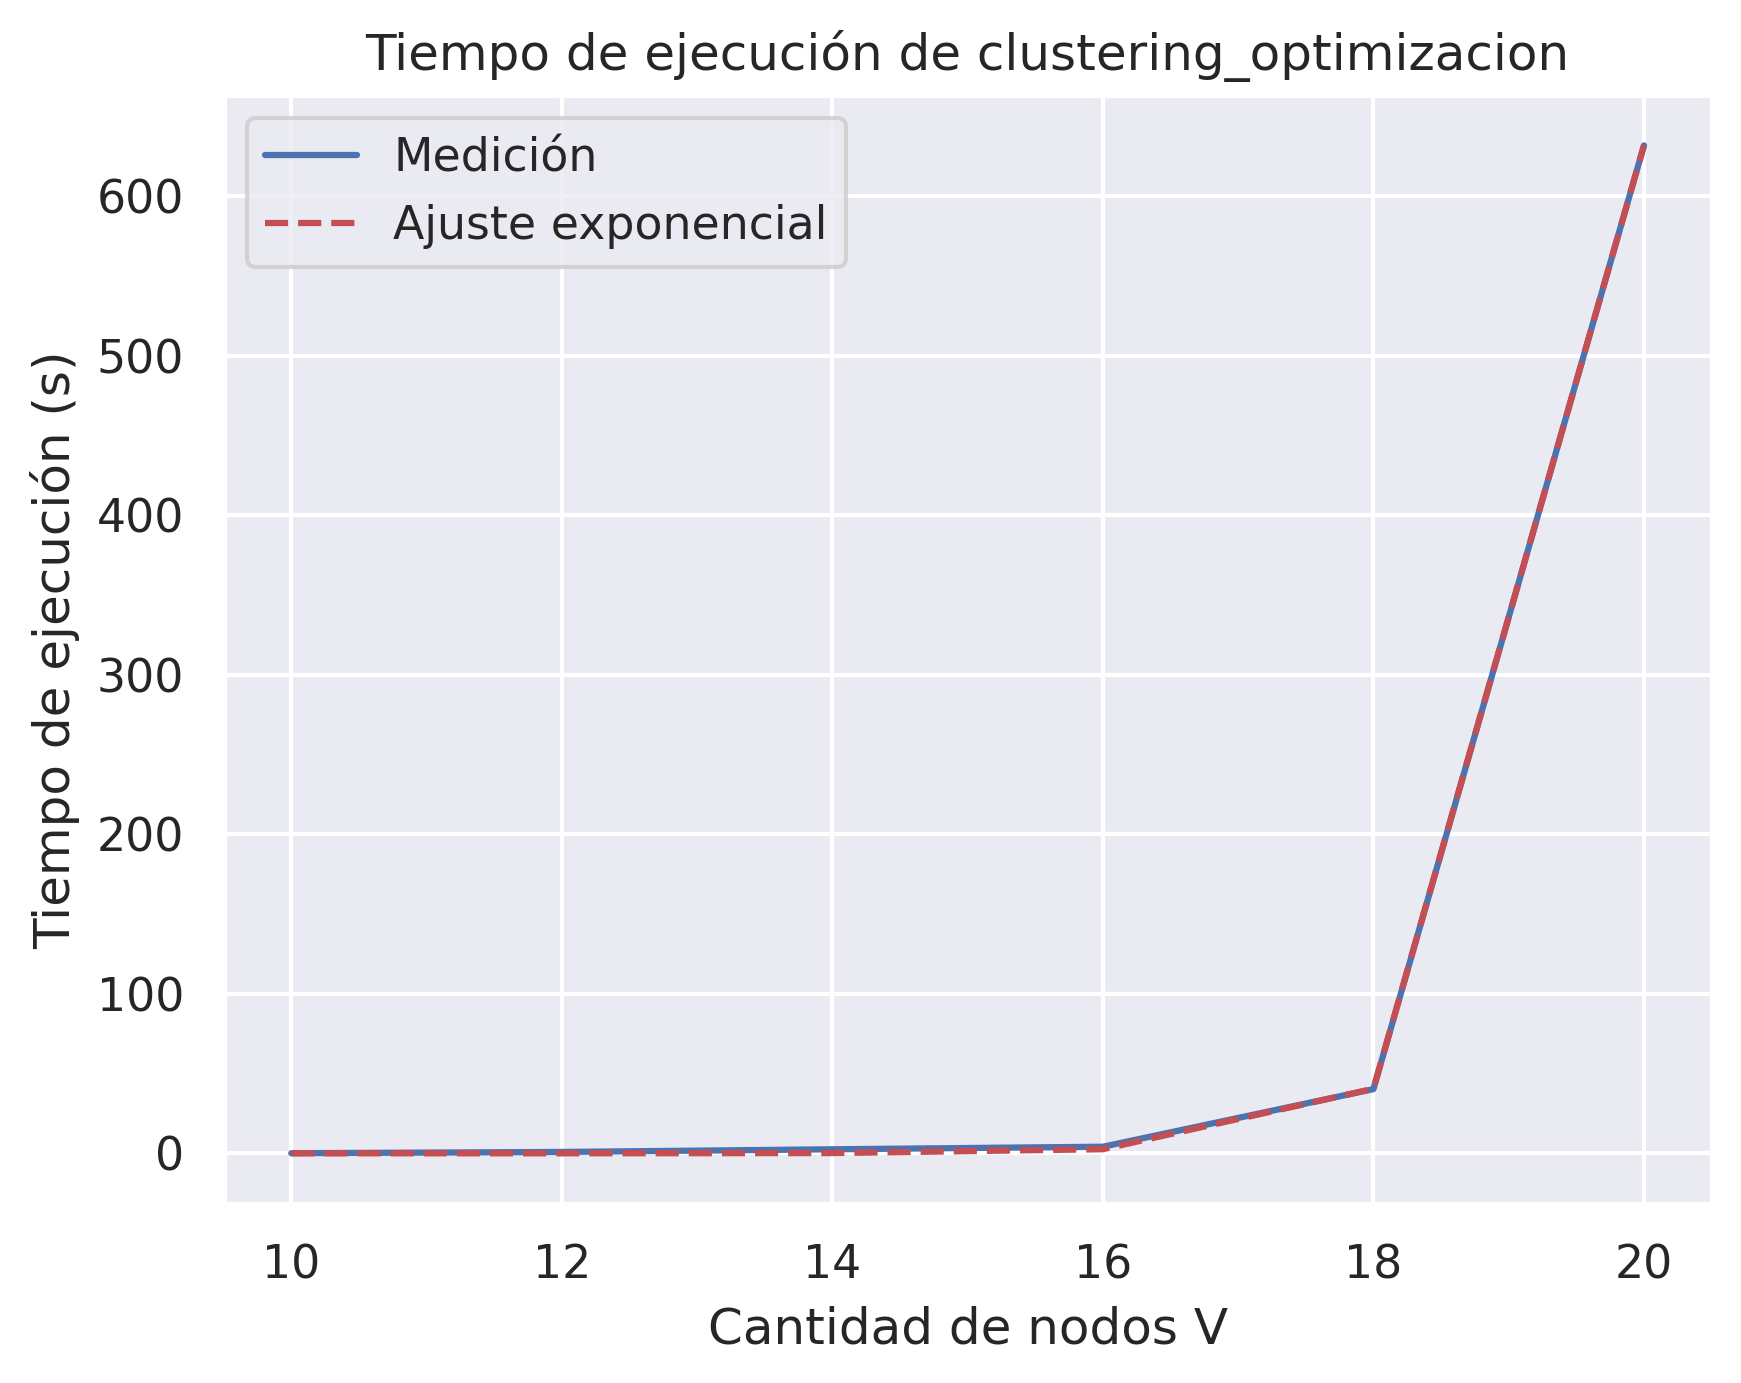
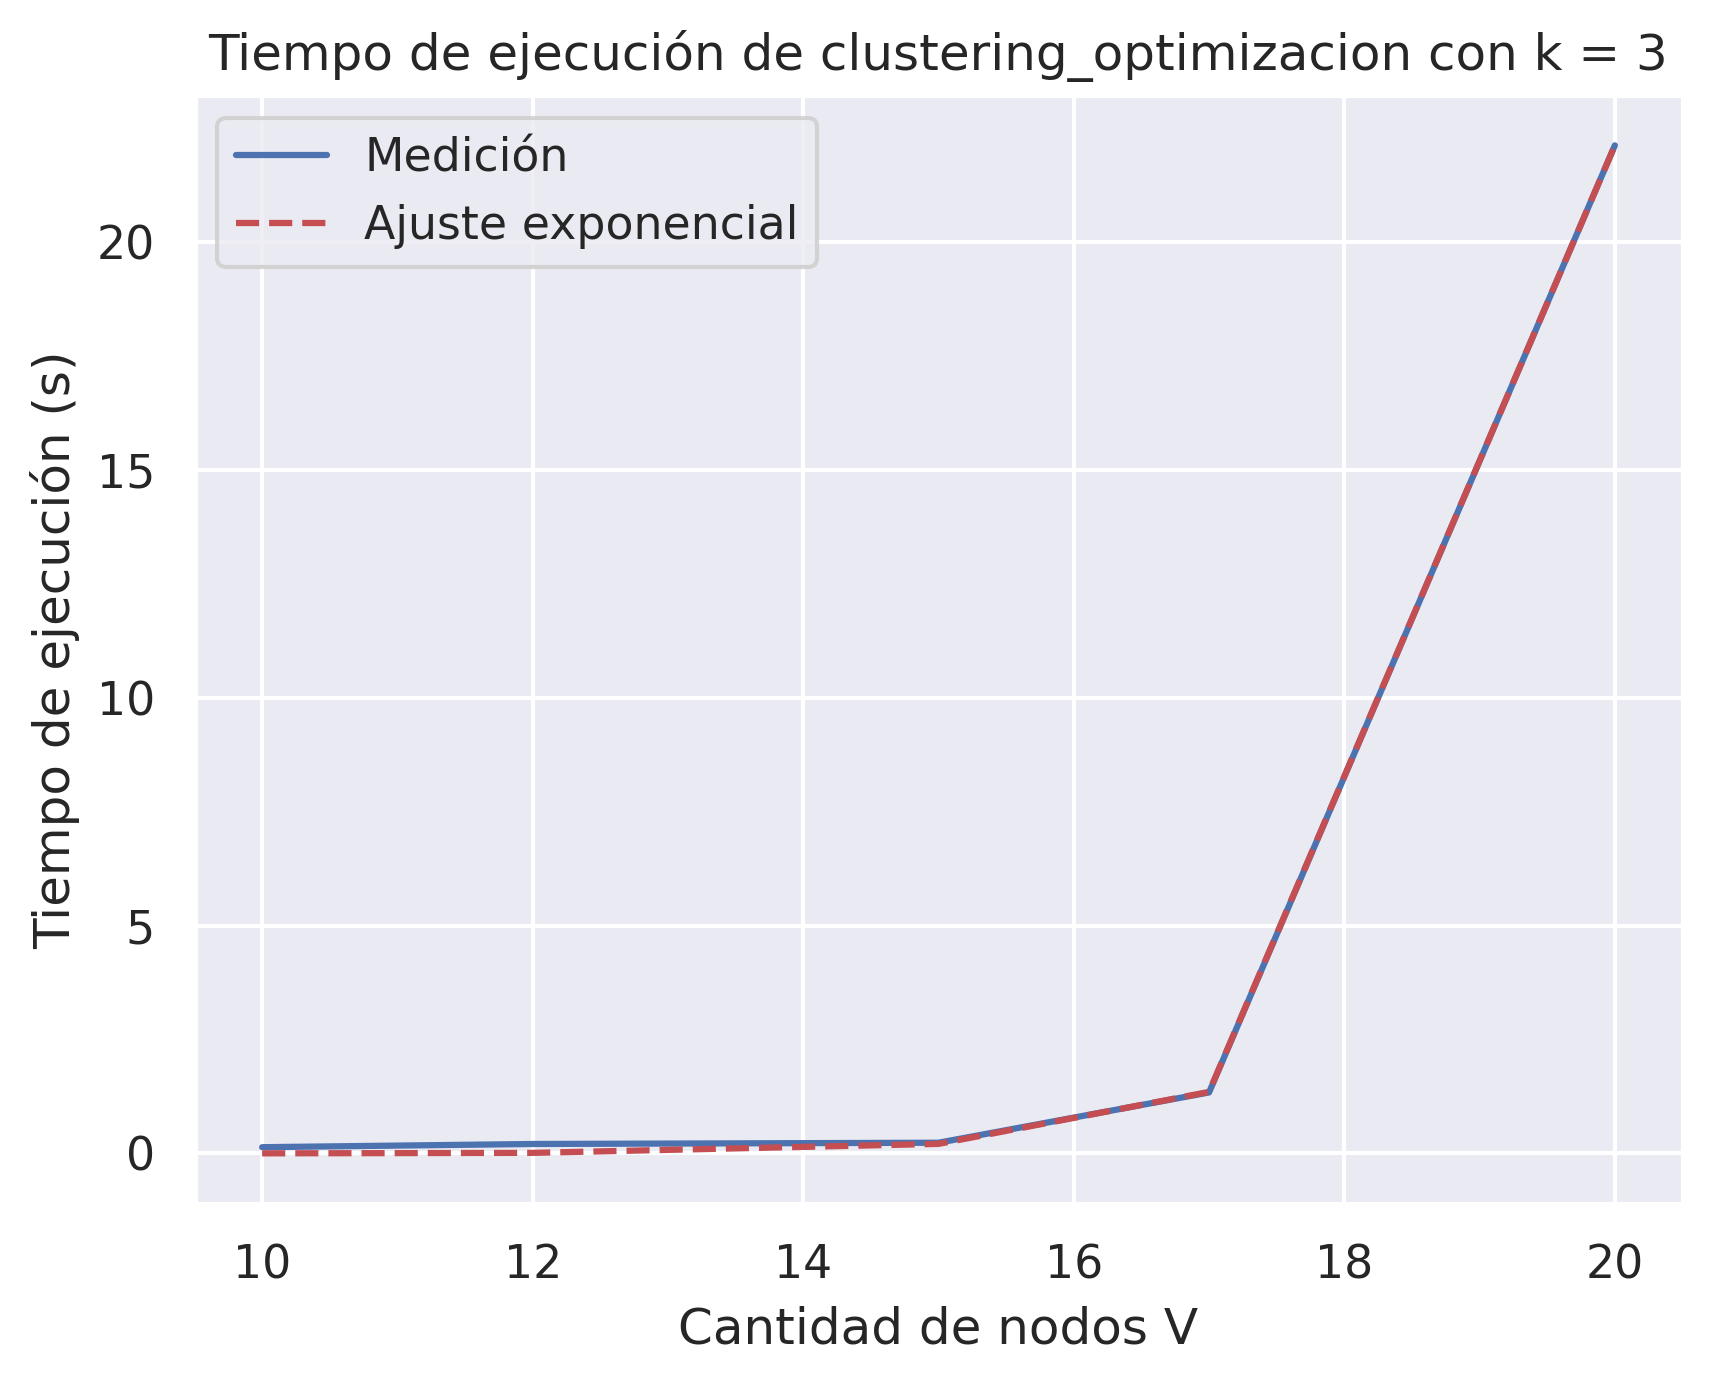
Completo mediciones para bt

diff --git a/mediciones.py b/mediciones.py
@@ -1,4 +1,5 @@
 import sys
+import time
 import os
 
 sys.path.append(os.path.abspath(os.path.join(os.path.dirname(__file__), '..')))
@@ -24,13 +25,12 @@ def graficar_medicion_k_3(results, x):
     ax: plt.Axes
     fig, ax = plt.subplots()
     ax.plot(x, [results[i] for i in x], label="Medición")
-    ax.set_title('Tiempo de ejecución de clustering_optimizacion')
+    ax.set_title('Tiempo de ejecución de clustering_optimizacion con k = 3')
     ax.set_xlabel('Cantidad de nodos V')
     ax.set_ylabel('Tiempo de ejecución (s)')
 
-    # Ajuste exponencial: f(V) = c1 * c2^V
     f = lambda x, c1, c2: c1 * (c2 ** x)
-    c, pcov = sp.optimize.curve_fit(f, x, [results[n] for n in x], p0=(1e-6, 2.0))
+    c, pcov = sp.optimize.curve_fit(f, x, [results[n] for n in x], p0=(1e-3, 1.1), maxfev =5000)
     print(f"c_1 = {c[0]}, c_2 = {c[1]}")
     r = np.sum((f(np.array(x), *c) - [results[n] for n in x]) ** 2)
     print(f"Error cuadrático total: {r}")
@@ -49,42 +49,33 @@ def graficar_error_k_3(c, results, x, f):
     ax.set_ylabel('Error absoluto (s)')
     fig.savefig(f"error-k_3.png", dpi=300, bbox_inches='tight')
 
+def graficar_medicion_k_6(results, x):
+    ax: plt.Axes
+    fig, ax = plt.subplots()
+    ax.plot(x, [results[i] for i in x], label="Medición")
+    ax.set_title('Tiempo de ejecución de clustering_optimizacion con k = 6')
+    ax.set_xlabel('Cantidad de nodos V')
+    ax.set_ylabel('Tiempo de ejecución (s)')
 
+    f = lambda x, c1, c2: c1 * (c2 ** x)
+    c, pcov = sp.optimize.curve_fit(f, x, [results[n] for n in x], p0=(1e-3, 1.1), maxfev =5000)
+    print(f"c_1 = {c[0]}, c_2 = {c[1]}")
+    r = np.sum((f(np.array(x), *c) - [results[n] for n in x]) ** 2)
+    print(f"Error cuadrático total: {r}")
+    ax.plot(x, [f(n, *c) for n in x], 'r--', label="Ajuste exponencial")
+    ax.legend()
+    fig.savefig(f"ajuste-k_6.png", dpi=300, bbox_inches='tight')
+    graficar_error_k_6(c, results, x, f)
 
-# def graficar_medicion_n_variable(results, x):
-#     ax: plt.Axes
-#     fig, ax = plt.subplots()
-#     ax.plot(x, [results[i] for i in x], label="Medición")
-#     ax.set_title('Tiempo de ejecución de algoritmo') #CHEQUEAR NAME
-#     ax.set_xlabel('Largo cadena recibida')
-#     ax.set_ylabel('Tiempo de ejecución (s)')
-#     None
-
-#     # scipy nos pide una función que recibe primero x y luego los parámetros a ajustar:
-#     f = lambda x, c1, c2: c1 * x + c2 
-
-#     c, pcov = sp.optimize.curve_fit(f, x, [results[n] for n in x])
-
-
-#     print(f"c_1 = {c[0]}, c_2 = {c[1]}")
-#     r = np.sum((c[0] * x + c[1] - [results[n] for n in x])**2)
-#     print(f"Error cuadrático total: {r}")
-#     ax.plot(x, [c[0] * n + c[1] for n in x], 'r--', label="Ajuste")
-#     ax.legend()
-#     fig.savefig(f"ajuste-n_variable.png", dpi=300, bbox_inches='tight')
-#     graficar_error_n_variable(c, results, x)
-
-
-# def graficar_error_n_variable(c, results, x):
-#     ax: plt.Axes
-#     fig, ax = plt.subplots()
-#     errors = [np.abs(c[0] * n + c[1] - results[n]) for n in x]
-#     ax.plot(x, errors)
-#     ax.set_title('Error de ajuste')
-#     ax.set_xlabel('Largo cadena recibida')
-#     ax.set_ylabel('Error absoluto (s)')
-#     None
-#     fig.savefig(f"error-n_variable.png", dpi=300, bbox_inches='tight')
+def graficar_error_k_6(c, results, x, f):
+    ax: plt.Axes
+    fig, ax = plt.subplots()
+    errors = [np.abs(f(n, *c) - results[n]) for n in x]
+    ax.plot(x, errors)
+    ax.set_title('Error de ajuste')
+    ax.set_xlabel('Cantidad de nodos V')
+    ax.set_ylabel('Error absoluto (s)')
+    fig.savefig(f"error-k_6.png", dpi=300, bbox_inches='tight')
 
 
 def obtener_volumenes(minimo, maximo, cantidad):
@@ -101,7 +92,14 @@ def obtener_args_algoritmo_k_3(n):
     k=3
     return [grafo,k]
 
+def obtener_args_algoritmo_k_6(n):
+    grafo = generar_grafo(n)
+    k=6
+    return [grafo,k]
+
+
 def ejecutar_algoritmo(grafo, k):
+    print(f"Corriendo algoritmo")
     return clustering_optimizacion(grafo, k)
 
 if __name__ == '__main__':
@@ -109,9 +107,21 @@ if __name__ == '__main__':
     np.random.seed(12345)
     sns.set_theme()
 
+    inicio = time.time()    
     
-    
-    x_n = obtener_volumenes(10,20,6)
+    x_n = obtener_volumenes(10,20,5)
 
-    results = time_algorithm(ejecutar_algoritmo, x_n, obtener_args_algoritmo_k_3)
-    graficar_medicion_k_3(results, x_n)
+    results = time_algorithm(ejecutar_algoritmo, x_n, obtener_args_algoritmo_k_6)
+    #graficar_medicion_k_3(results, x_n)
+    #Error cuadrático total: 0.05693380316546821
+    #tarda en medir 169.42s
+
+    #graficar_medicion_k_6(results, x_n)
+    #Error cuadrático total: 417.07352172676906
+    #tarda en medir 2933.43s
+
+
+    fin = time.time()
+
+    total = fin - inicio
+    print(f"tarda en medir {total:.2f}s")

diff --git a/util.py b/util.py
@@ -6,7 +6,7 @@ import os
 # Este parámetro controla cuantas veces se ejecuta el algoritmo para cada
 # tamaño. Esto es conveniente para reducir el error estadístico en la medición
 # de tiempos. Al finalizar las ejecuciones, se promedian los tiempos obtenidos
-RUNS_PER_SIZE = 10
+RUNS_PER_SIZE = 7
 
 # Ajustar este valor si se quiere usar más de un proceso para medir los tiempos
 # de ejecución, o None para usar todos los procesadores disponibles. Si se usan
